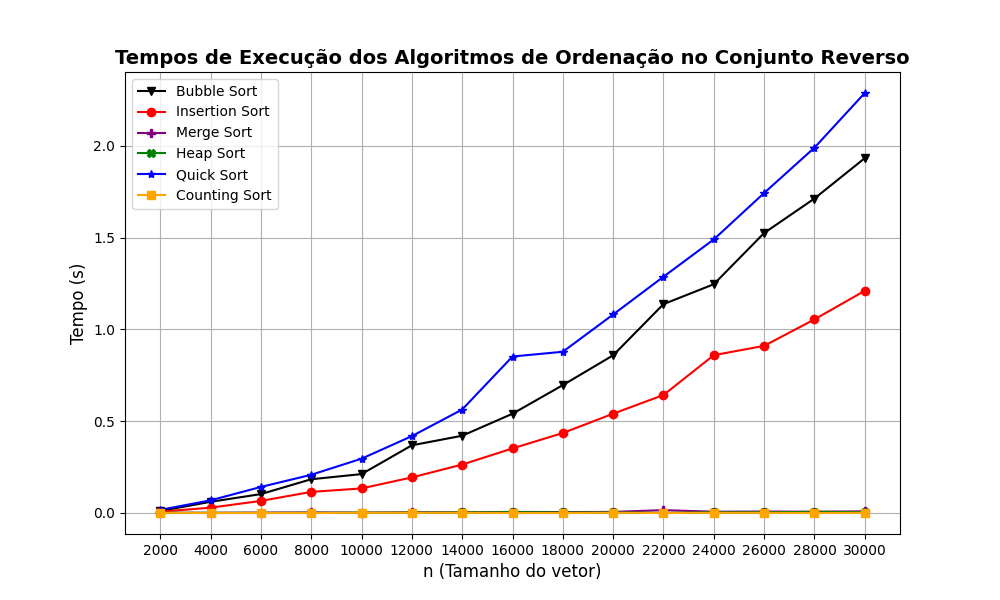
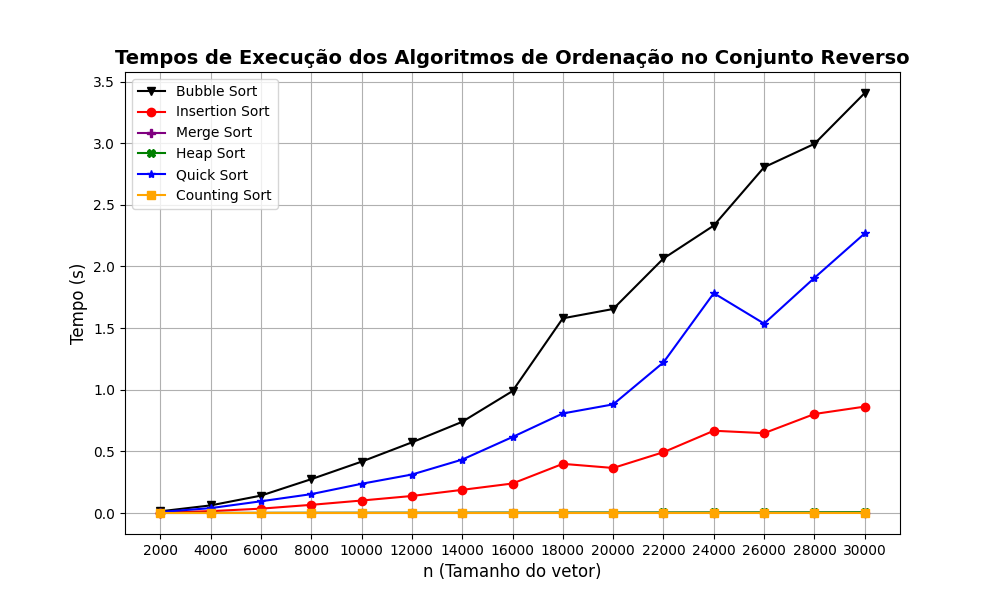
teste

diff --git a/program.cpp b/program.cpp
@@ -3,7 +3,7 @@
 // ./teste
 int main()
 {
-    int inc = 1000, fim = 20000, stp = 1000, rpt = 10;
+    int inc = 2000, fim = 30000, stp = 2000, rpt = 10;
     
     vetorAleatorio(inc, fim, stp, rpt);
     vetorReverso(inc, fim, stp);
